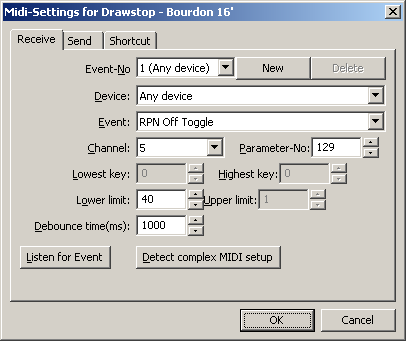
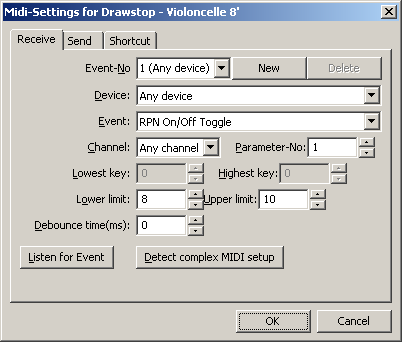
Help Update: Document On/Off Toggle Received MIDI events
git-svn-id: svn://svn.code.sf.net/p/ourorgan/svn/trunk@2140 69509848-2a73-49d5-a893-c4d8c934025a

diff --git a/src/grandorgue/MIDIEventRecvDialog.cpp b/src/grandorgue/MIDIEventRecvDialog.cpp
@@ -171,7 +171,7 @@ MIDIEventRecvDialog::MIDIEventRecvDialog (wxWindow* parent, GOrgueMidiReceiver* 
 	{
 		m_eventtype->Append(_("RPN On Toggle"), (void*)MIDI_M_RPN_ON);
 		m_eventtype->Append(_("RPN Off Toggle"), (void*)MIDI_M_RPN_OFF);
-		m_eventtype->Append(_("RPN On/off Toggle"), (void*)MIDI_M_RPN_ON_OFF);
+		m_eventtype->Append(_("RPN On/Off Toggle"), (void*)MIDI_M_RPN_ON_OFF);
 		m_eventtype->Append(_("NRPN On Toggle"), (void*)MIDI_M_NRPN_ON);
 		m_eventtype->Append(_("NRPN Off Toggle"), (void*)MIDI_M_NRPN_OFF);
 		m_eventtype->Append(_("NRPN On/Off Toggle"), (void*)MIDI_M_NRPN_ON_OFF);
@@ -317,9 +317,11 @@ void MIDIEventRecvDialog::OnTypeChange(wxCommandEvent& event)
 		case MIDI_M_CTRL_BIT:
 		case MIDI_M_CTRL_CHANGE_ON:
 		case MIDI_M_CTRL_CHANGE_OFF:
+		case MIDI_M_CTRL_CHANGE_ON_OFF:
 		case MIDI_M_CTRL_CHANGE_FIXED:
 		case MIDI_M_CTRL_CHANGE_FIXED_ON:
 		case MIDI_M_CTRL_CHANGE_FIXED_OFF:
+		case MIDI_M_CTRL_CHANGE_FIXED_ON_OFF:
 			m_DataLabel->SetLabel(_("&Controller-No:"));
 			break;
 
@@ -327,8 +329,10 @@ void MIDIEventRecvDialog::OnTypeChange(wxCommandEvent& event)
 		case MIDI_M_NRPN:
 		case MIDI_M_RPN_ON:
 		case MIDI_M_RPN_OFF:
+		case MIDI_M_RPN_ON_OFF:
 		case MIDI_M_NRPN_ON:
 		case MIDI_M_NRPN_OFF:
+		case MIDI_M_NRPN_ON_OFF:
 			m_DataLabel->SetLabel(_("&Parameter-No:"));
 			break;
 
